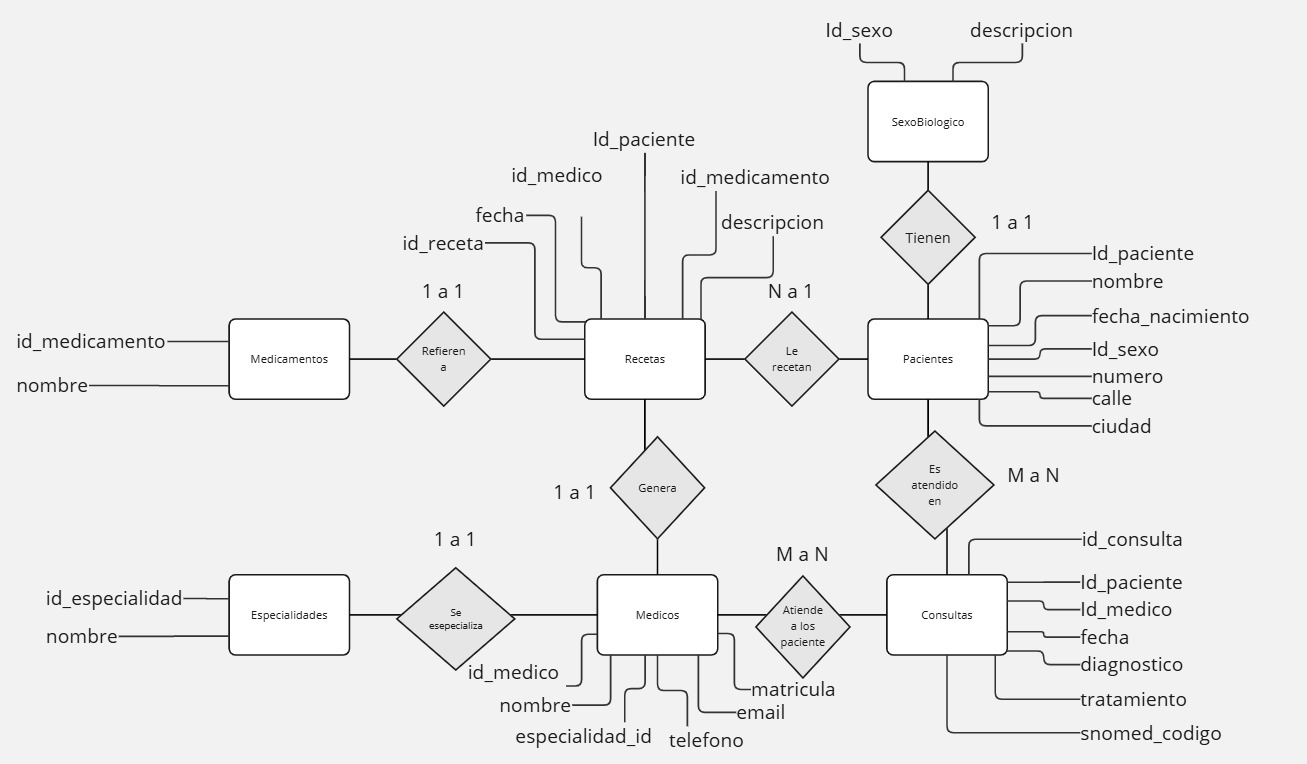
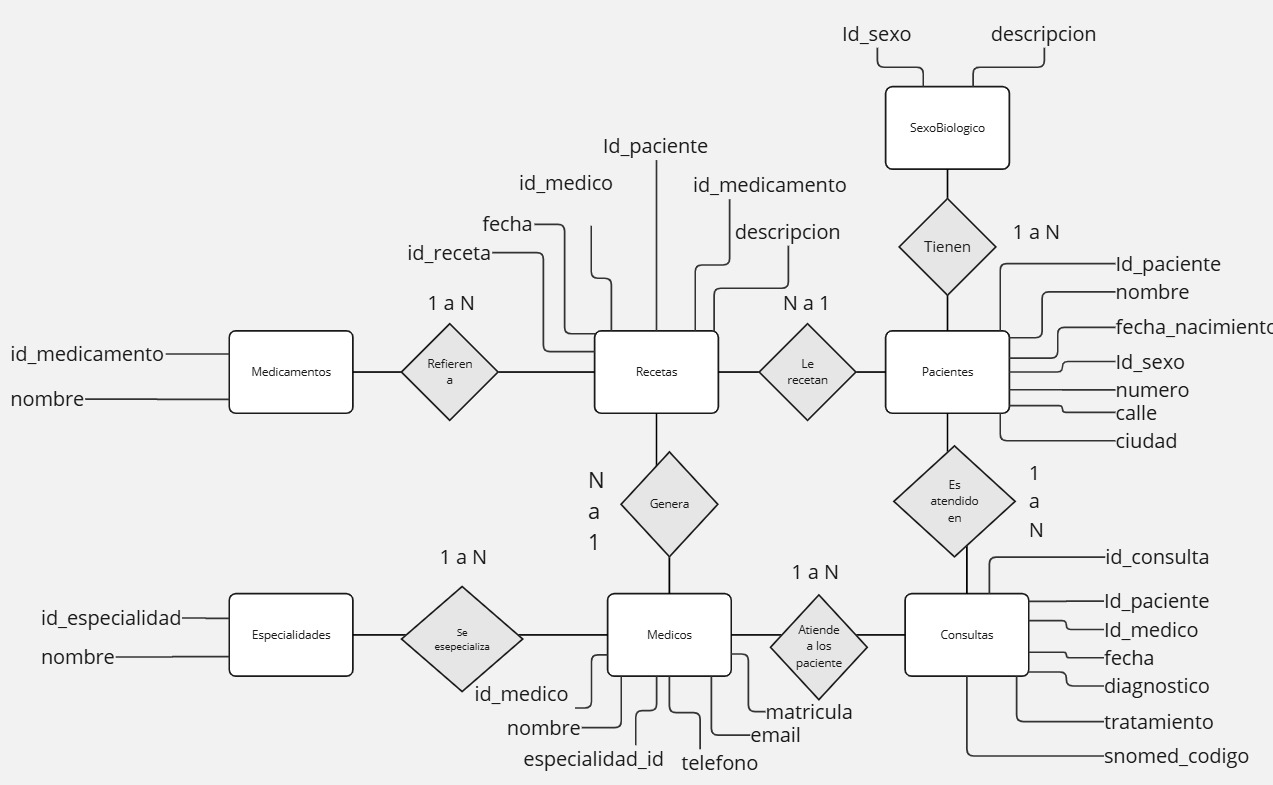
Correction of Image and Inform

diff --git a/INFORME.md b/INFORME.md
@@ -9,34 +9,41 @@
 
 ### 1. ¿Qué tipo de base de datos es? 
 
-Respuesta : Para poder definir el tipo de base de datos primero debemos analizar el archivo y su formato.
+Respuesta: Para poder definir el tipo de base de datos primero debemos analizar el archivo y su formato.
 
-Observando en detalle el archivo "base_de_datos.sql" podemos notar que los datos se almacenan de manera organizada en tablas . Estas tablas se dividen en columnas que indican las diferentes caracteristicas de los datos y en filas que acen alusion a los diferentes registros dentro de una misma tabla.
+Observando en detalle el archivo "base_de_datos.sql" podemos notar que los datos se almacenan de manera organizada en tablas. Estas tablas se dividen en columnas que indican las diferentes características de los datos y en filas que hacen alusión a los diferentes registros dentro de una misma tabla.
 
-Además de esto se utilizan claves primarias (Primary Keys) y claves foraneas (Foriegn Keys). Por un lado las claves primarias garantinzan que cada registro en una tabla sea unico lo que asegura que no haya registro duplicados. Por otro lado la clave foranea permite crear relaciones entre las tablas. Por ejemplo en Pacientes, id_sexo es una clave foránea que se refiere a la tabla SexoBiologico. Esto ultimo es fundamental para poder establecer una relacion logica entre las 2 tablas
+Además de esto se utilizan claves primarias (Primary Keys) y claves foráneas (Foriegn Keys). Por un lado, las claves primarias garantizan que cada registro en una tabla sea único lo que asegura que no haya registro duplicados. Por otro lado, la clave foránea permite crear relaciones entre las tablas. Por ejemplo, en Pacientes, id_sexo es una clave foránea que se refiere a la tabla SexoBiologico. Esto último es fundamental para poder establecer una relación lógica entre las 2 tablas.
 
-Dado a estar razones, podemos definir que el archivo se trata d euna base de datos relacional dado a que las tablas establecen relaciones logicas una con las otras asociandose segun diferentes caracteristicas al usar de manera combinada las claves primarias y las claves foraneas
+Dado a estar razones, podemos definir que el archivo se trata de una base de datos relacional dado a que las tablas establecen relaciones lógicas una con las otras asociándose según diferentes características al usar de manera combinada las claves primarias y las claves foráneas.
+
 
 ### 2. Armar el diagrama entidad-relación de la base de datos dada. 
 
 ![diagrama_db](Imagenes/diagrama_db.jpg)
 
+El diagrama fue armado a mano usando la aplicación de Miro
+
 ### 3. Armar el Modelo relacional de la base de datos dada.
 
 ![modelo_relacional](Imagenes/modelo_relacional.png)
 
-
+El modelo relacional se armó en dbdiagram.io y se hizo de manera automática al exportar la base de datos a la 
+aplicación
 
 ### 4. Considera que la base de datos está normalizada. En caso que no lo esté, ¿cómo podría hacerlo?
 
 
-En este caso debemos analizar las diferentes tablas que se armaron ya que vamos notar algunas que se encuentran correctamente normalizadas mientras que otras podrian necesitar mejoras.
+En este caso debemos analizar las diferentes tablas que se armaron ya que vamos notar algunas que se encuentran correctamente normalizadas mientras que otras podrían necesitar mejoras.
 
-Por ejemplo, en el caso de la tabla "SexoBiologico" se encuentra correctamente normalizada. Esto se debe a que por un lado tenemos que se delimita los generos usando un id_sexo como primary key y designando los terminos "Masculino" y "Femenino". A su vez , gracias a las relaciones de la base de datos, en la tabla "Pacientes" cada uno de los registros tiene un id_sexo como clave foránea. Esto es sumamente util para la normalizacion ya que se evitan redundacias de informacion al sexo biologico ya que otro usuario podria ingresarlo bajo otro termino como "Hombre" y "Mujer" o cualquier otro caso pueda posible. Esto mismo pasa en muchas otras tablas estableciendo relaciones, otro buen ejemplo es el caso de la tabla especialidades y la tabla médicos.
+Por ejemplo, en el caso de la tabla "SexoBiologico" se encuentra correctamente normalizada. Esto se debe a que por un lado tenemos que se delimita los géneros usando un id_sexo como primary key y designando los términos "Masculino" y "Femenino". A su vez, gracias a las relaciones de la base de datos, en la tabla "Pacientes" cada uno de los registros tiene un id_sexo como clave foránea. Esto es sumamente útil para la normalización ya que se evitan redundancias de información al sexo biológico ya que otro usuario podría ingresarlo bajo otro termino como "Hombre" y "Mujer" o cualquier otro caso pueda posible. Esto mismo pasa en muchas otras tablas estableciendo relaciones, otro buen ejemplo es el caso de la tabla especialidades y la tabla médicos.
 
-Asimismo en la tabla de pacientes podemos encontrar ejemplos de atributos que necesitan de cierta normalización. Un claro caso de esto es el caso de ciudad en donde podemos ver varios registros que en esencia tienen el mismo valor de atributo pero al estar mal escrito (Bs Aires / buenos aires  / Buenos aires / etc) no se podrian analizar como el mismo valor. Al ser el atributo ciudad un valor el cual puede englobar a mas de uno paciente (algo que es mas dificil de hacer con datos puntuales como numero o fecha de nacimiento) se podria normalizar de la misma forma que se hace con id_sexo pero estableciendo esta vez un id_ciudad. A su vez , aunque no se encontraron errores, lo mismo ocurre para el caso de direcciones. En este caso tambien se podria usar un foreign key de id_direccion y seria una buena practica crear una tabla estas direcciones que se relacionan a su vez con un aclave foranea de id_ciudad ya que podria a ver una calle con el mismo nombre en ciudades diferentes. Estas relaciones permitirian un correcta normalizacion de estos atributos evitando errores de entradas y que los valores de estos atributos respeten una misma metodologia (lo que luego facilitara el uso de las herramientas de recoleccion de informacion como PowerBI).
+Asimismo, en la tabla de pacientes podemos encontrar ejemplos de atributos que necesitan de cierta normalización. Un claro caso de esto es el caso de ciudad en donde podemos ver varios registros que en esencia tienen el mismo valor de atributo, pero al estar mal escrito (Bs Aires / buenos aires / Buenos aires / etc) no se podrían analizar como el mismo valor. Al ser el atributo ciudad un valor el cual puede englobar a más de uno paciente (algo que es más difícil de hacer con datos puntuales como numero o fecha de nacimiento) se podría normalizar de la misma forma que se hace con id_sexo pero estableciendo esta vez un id_ciudad. A su vez, aunque no se encontraron errores, lo mismo ocurre para el caso de direcciones. En este caso también se podría usar un foreign key de id_direccion y sería una buena práctica crear una tabla estas direcciones que se relacionan a su vez con una clave foránea de id_ciudad ya que podría a ver una calle con el mismo nombre en ciudades diferentes. Estas relaciones permitirían un correcta normalización de estos atributos evitando errores de entradas y que los valores de estos atributos respeten una misma metodología (lo que luego facilitara el uso de las herramientas de recolección de información como PowerBI).
 
-Analizando el resto de tablas, otra tabla mas que quizas necesite de normalizacion es la del diagnostico en donde podria no normalizarse el atributo de diagnostico pero si el del codigo de Snomed. De esta manera más allá que el doctor pueda expresar un diagnostico en sus propias palabras , el id_snomed permitira una correcta normalización indicando un mismo diagnostico para todos.
+Analizando el resto de las tablas, otra tabla más que quizás necesite de normalización es la del diagnóstico en donde podría no normalizarse el atributo de diagnóstico, pero si el del código de Snomed. De esta manera más allá que el doctor pueda expresar un diagnóstico en sus propias palabras, el id_snomed permitirá una correcta normalización indicando un mismo diagnostico para todos.
+
+Un ultima cosa a mencionar relacionado con la normalización de datos es que por algún motivo hay un nombre diferente para la clave primaria (que a su vez es foránea en otra tabla) de id_especialidad. En la tabla de Especialidades aparece como id_especialidad y en la tabla de Médicos aparece como especialidad_id. Esto podría llegar a causar error y confusiones por lo cual sería optimo tener un nombre totalmente en común.
+
 
 ## **PARTE 2:** Bases de Datos
 
